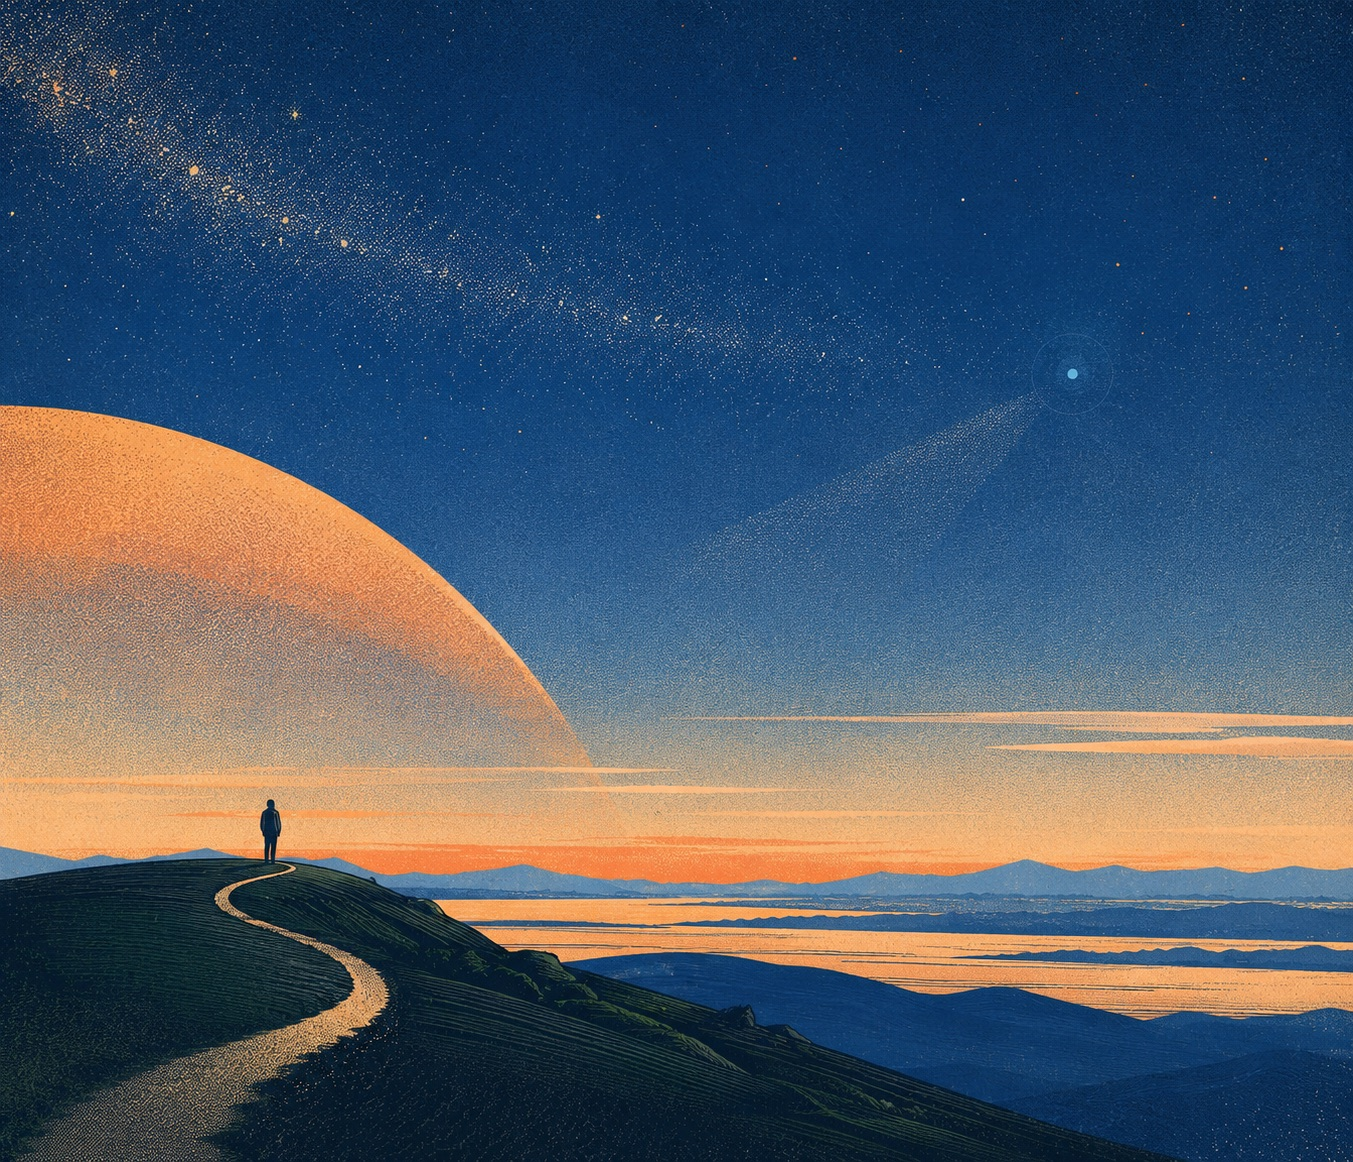
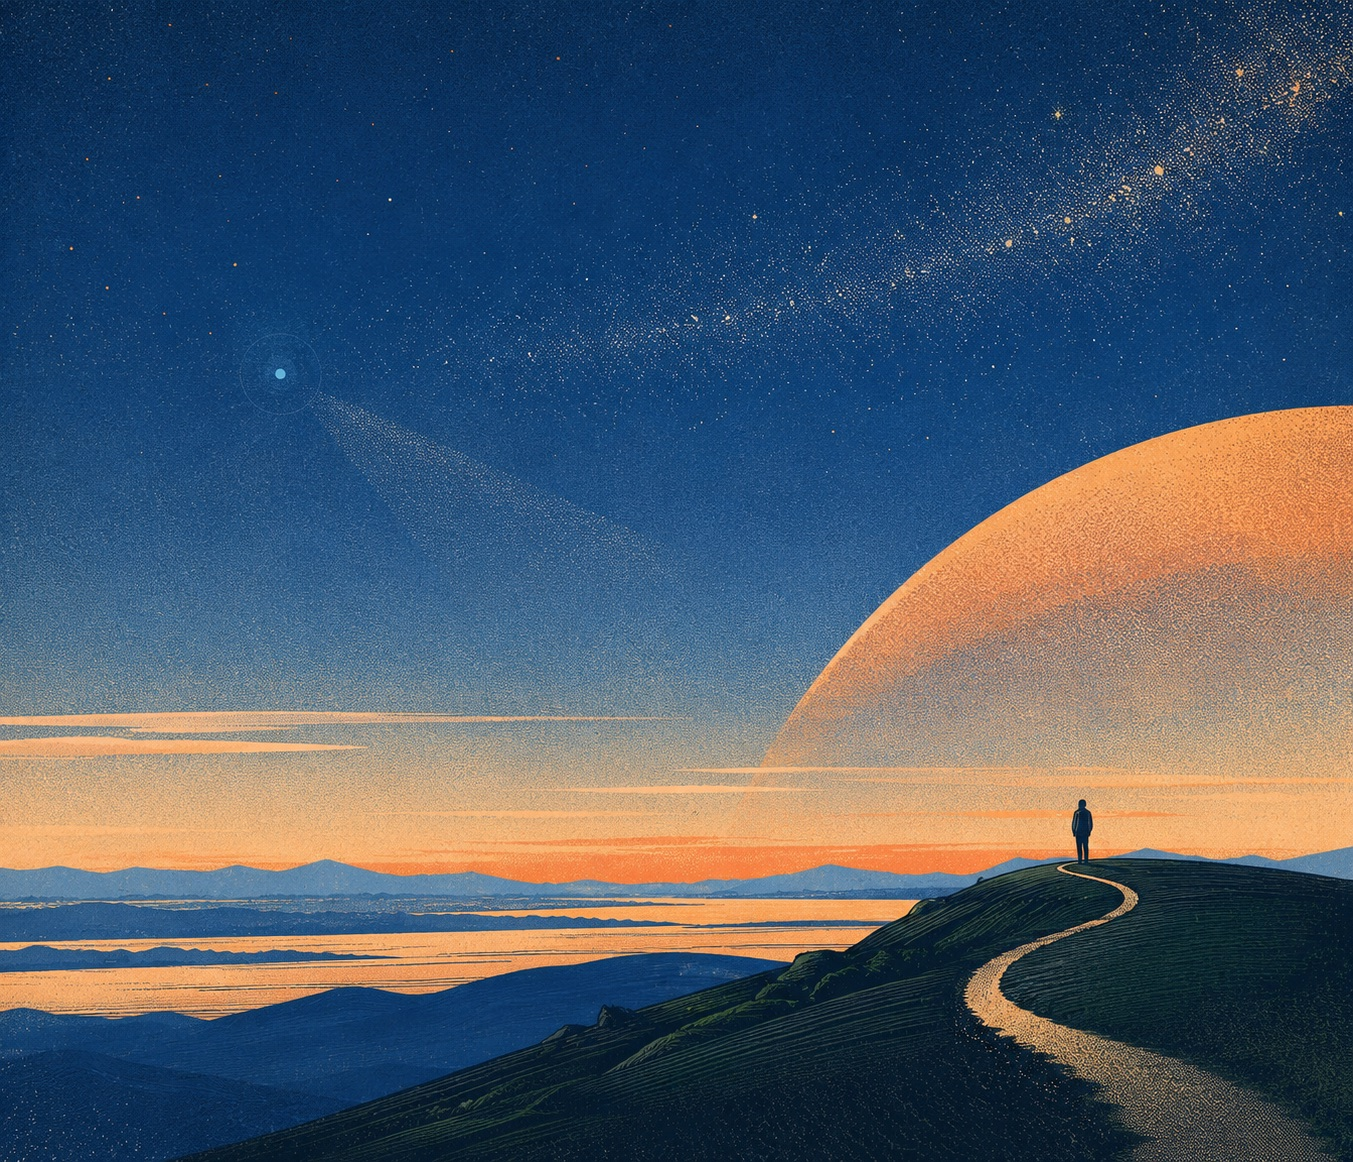
style(apex): left-aligned hero, mirrored plate
The copy moves top-left to match the os lander. The plate is mirrored
so the composition supports it: open starry sky on the left carries
the type (with the signal star above the headline), and the planet,
figure, and path keep the right half. Crop bias flipped to match;
soft text shadows returned for the cloud-band crossings.

Claude-Session: https://claude.ai/code/session_01887S9wbRoZgZ9tU8AkGZjk

diff --git a/apps/apex/web/index.html b/apps/apex/web/index.html
@@ -45,7 +45,9 @@
     position:fixed;inset:0;
     width:100%;height:100%;
     object-fit:cover;
-    object-position:38% 78%;
+    /* The plate is mirrored: planet and figure live right, so the crop
+       biases right and the open sky on the left yields last. */
+    object-position:62% 78%;
   }
   @media (max-aspect-ratio: 9/10){
     body{overflow:auto}
@@ -58,12 +60,13 @@
     }
   }
 
-  /* Copy sits in the open sky, away from the focal planet. ~35% of the
-     canvas, left-set type, one idea at a time. */
+  /* Copy sits top-left, same as the os lander. The plate is mirrored so
+     the open starry sky carries the type and the planet, figure, and path
+     keep the right half to themselves. */
   .copy{
     position:fixed;
-    top:clamp(4rem, 26vh, 19rem);
-    left:clamp(1.5rem, 56vw, 62vw);
+    top:clamp(4rem, 22vh, 16rem);
+    left:clamp(1.5rem, 5vw, 4.5rem);
     right:clamp(1.25rem, 6vw, 6rem);
     max-width:40ch;
     display:flex;
@@ -87,15 +90,17 @@
     line-height:.96;
     letter-spacing:-.025em;
     text-wrap:balance;
+    text-shadow:0 1px 3px rgba(8,14,26,.5);
   }
   .lede{
     font-family:var(--font-sans);
     font-weight:400;
     font-size:clamp(1rem, 1.4vw, 1.3rem);
     line-height:1.5;
-    color:rgba(243,229,209,.85);
+    color:rgba(243,229,209,.88);
     max-width:36ch;
     text-wrap:pretty;
+    text-shadow:0 1px 2px rgba(8,14,26,.55);
   }
   .actions{
     display:flex;
